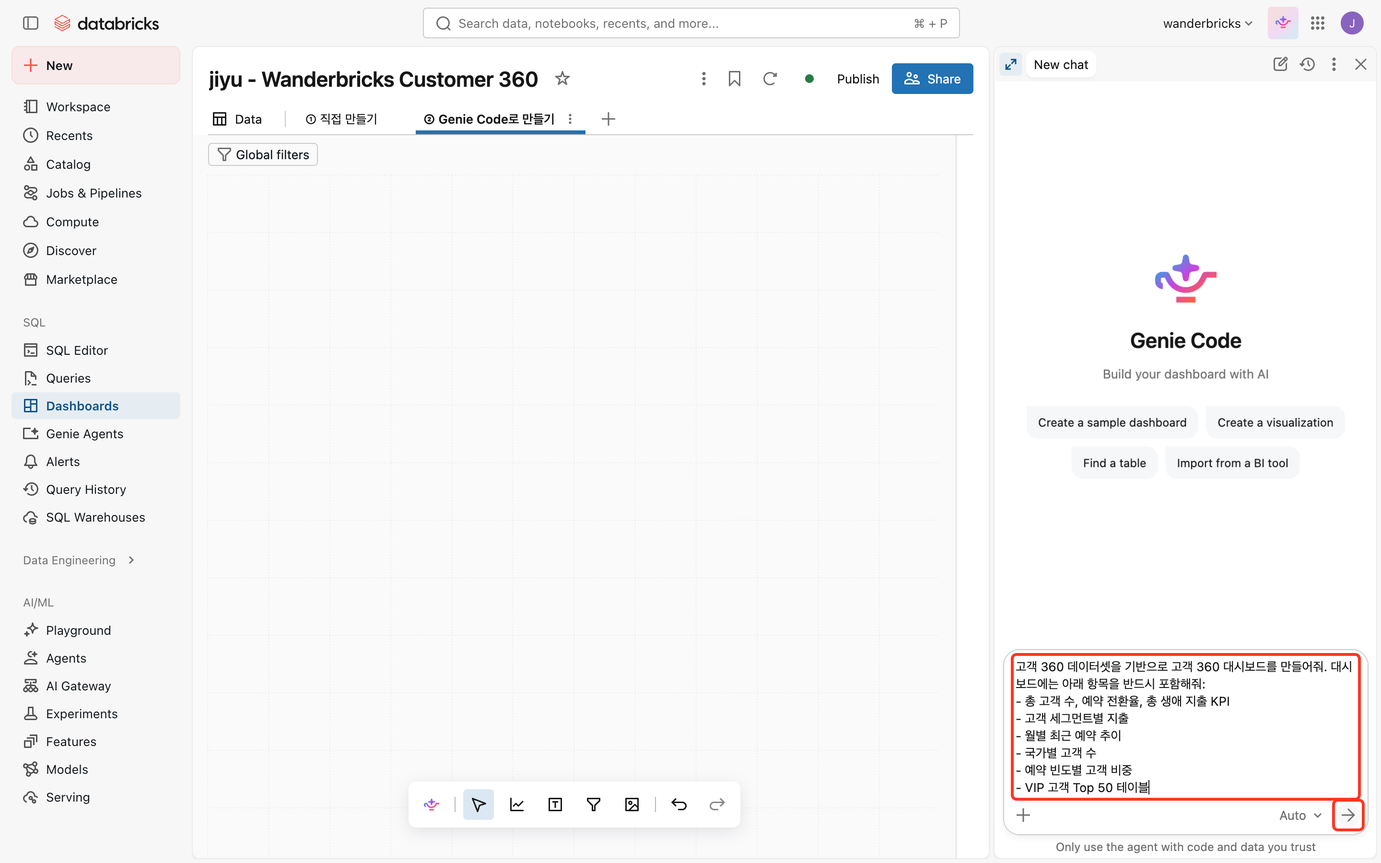
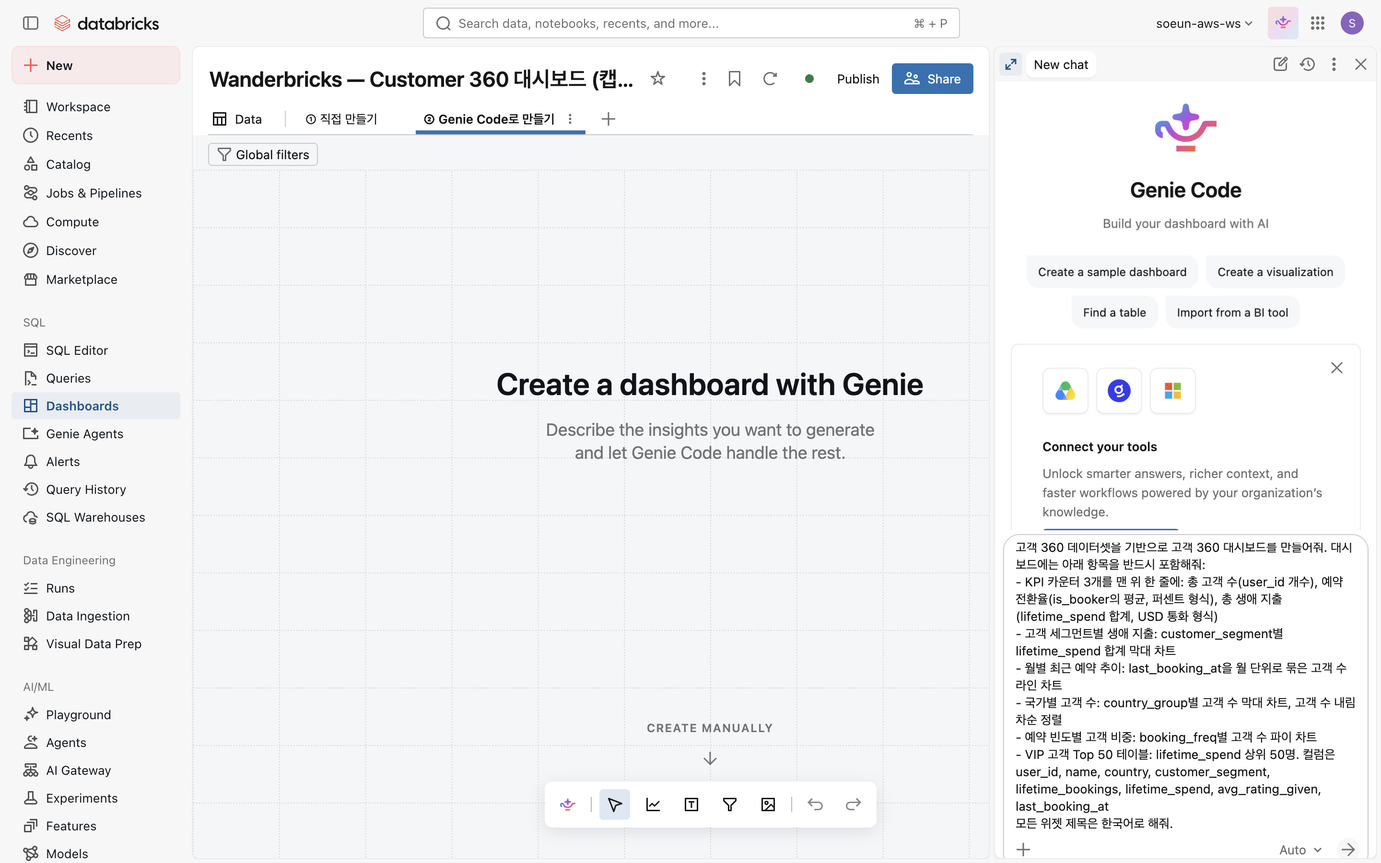
Add 1.4 Genie Code & Visual Data Prep, segment widgets in 2.2, refine 2.3 prompt
- 1.4 (Optional): build the same pipeline with Genie Code; Visual Data Prep overview and sample flow
- 2.2: steps 5-10 for segment & distribution widgets (heatmap, histogram, stacked bar, bubble) and two new datasets
- 2.3: prompt now defines each KPI/chart so results match the reference dashboard
- Screenshots captured on fevm-soeun-aws-ws

diff --git a/docs/kor/01-lakeflow-pipeline/1-4-optional-genie-code-vdp.md b/docs/kor/01-lakeflow-pipeline/1-4-optional-genie-code-vdp.md
@@ -1,0 +1,123 @@
+# 1.4) (Optional) Genie Code와 Visual Data Prep
+
+이 페이지는 선택 실습입니다. 1.1~1.3에서 SQL로 직접 만든 파이프라인을 **Genie Code**에게 자연어로 요청해 똑같이 만들어 보고, 코드 없이 데이터를 가공하는 **Visual Data Prep**이 어떻게 생긴 기능인지 살펴봅니다.
+
+| 방법 | 만드는 것 | 이런 분께 |
+|---|---|---|
+| SQL 직접 작성 (1.1~1.3) | Lakeflow 파이프라인 | 로직을 세밀하게 통제하려는 데이터 엔지니어 |
+| Genie Code (1단계~3단계) | 같은 Lakeflow 파이프라인 | 초안을 빠르게 만들고 코드를 검토·수정하려는 분 |
+| Visual Data Prep (4단계~6단계) | 캔버스 기반 데이터 준비 흐름 | SQL보다 화면 조작이 편한 분석가 |
+
+!!! warning "다른 스키마를 사용하세요"
+    1.1~1.3에서 만든 테이블과 같은 이름(`bronze_users`, `gold_customer_360` 등)을 만들기 때문에, 같은 카탈로그·스키마를 쓰면 기존 파이프라인과 충돌합니다. 이 실습에서는 기본 스키마로 `default`가 아닌 새 스키마(예: `genie_code`)를 사용합니다. 카탈로그에서 스키마를 먼저 만든 뒤 시작합니다.
+
+## 1단계 - 새 파이프라인 만들고 Genie Code 열기
+
+1. 왼쪽 사이드바 상단의 **New** → **ETL pipeline**을 클릭합니다. [1.1)의 1단계](1-1-bronze.md#1-)와 같은 방법으로 파이프라인 이름(예: `<your_name>_wanderbricks_genie_code`)과 기본 카탈로그·스키마(`<your_name>_wanderbricks_marketing` / `genie_code`)를 설정합니다.
+
+2. 편집기의 빈 파일에 보이는 **Create with Genie Code**를 클릭합니다. 오른쪽에 Genie Code 패널이 열립니다. 화면 오른쪽 위의 Genie Code 아이콘으로 열어도 됩니다.
+
+    ![Create with Genie Code](../assets/images/01-lakeflow-pipeline/1-4-01-genie-code-button.png)
+
+## 2단계 - 프롬프트 입력하기
+
+1. Genie Code 입력창에 아래 프롬프트를 붙여넣고 전송합니다.
+
+    !!! info "Prompt:"
+        ```text
+        samples.wanderbricks의 users, bookings, reviews 테이블로 SQL 메달리온 파이프라인을 만들어줘. 파일은 bronze.sql, silver.sql, gold.sql 3개로 나눠줘.
+        - Bronze: bronze_users, bronze_bookings, bronze_reviews 스트리밍 테이블. 원천을 STREAM()으로 그대로 읽고 _ingested_at(current_timestamp), _source(원천 테이블명) 컬럼 추가
+        - Silver: silver_dim_users(email NULL 제거, email·name·country·user_type 표준화), silver_fact_bookings(total_amount > 0, check_out >= check_in, status는 pending/confirmed/cancelled/completed만, nights = datediff 추가), silver_fact_reviews(is_deleted = false, rating 1~5). 규칙은 CONSTRAINT ... EXPECT ... ON VIOLATION DROP ROW로 정의
+        - Gold: gold_customer_360 Materialized View. 고객 1명당 1행으로 lifetime_bookings(예약 수), lifetime_spend(completed 예약 금액 합계), avg_rating_given(평균 평점), last_booking_at(최근 예약일). 예약과 리뷰는 각각 user_id로 먼저 집계한 뒤 users에 LEFT JOIN해서 팬아웃을 막아줘. 컬럼마다 한국어 COMMENT를 달고 user_id를 PRIMARY KEY로 지정해줘
+        ```
+
+    ![파이프라인 프롬프트 입력](../assets/images/01-lakeflow-pipeline/1-4-02-pipeline-prompt.png)
+
+2. Genie Code가 계획(**Plan**)을 세우고 파일을 만든 뒤, 파이프라인을 실행해 결과를 확인합니다. 2~4분 정도 걸립니다.
+
+    ![Genie Code가 파이프라인을 만드는 중](../assets/images/01-lakeflow-pipeline/1-4-03-pipeline-generating.png)
+
+!!! tip "프롬프트에 무엇을 적어야 하나요?"
+    1.2)에서 설명한 **Expectations 규칙**, **팬아웃을 막는 사전 집계**, **컬럼 코멘트와 기본 키**는 Genie Code가 스스로 판단하기 어려운 부분입니다. 프롬프트에 직접 적어 주어야 1.1~1.3과 같은 결과가 나옵니다. 예를 들어 "팬아웃을 막아줘"를 빼면 예약과 리뷰를 한 번에 조인해 생애 지출이 부풀려질 수 있습니다.
+
+## 3단계 - 결과 검토하고 반영하기
+
+1. Genie Code가 만든 파일 3개가 패널 아래 **assets** 목록에 표시되고, 하단 **Tables** 탭에 7개 테이블의 실행 결과가 나타납니다. 파일 이름을 클릭해 코드를 검토한 뒤 **Accept all**을 클릭해 반영합니다.
+
+    ![Genie Code 결과와 Accept all](../assets/images/01-lakeflow-pipeline/1-4-04-pipeline-result.png)
+
+2. 하단의 **Pipeline graph** 탭에서 1.3)과 같은 7개 테이블 그래프가 만들어졌는지 확인합니다. Silver 노드 오른쪽 아래의 숫자(476, 124, 1)는 Expectations로 제거된 행 수입니다.
+
+    ![Genie Code로 만든 파이프라인 그래프](../assets/images/01-lakeflow-pipeline/1-4-05-pipeline-graph.png)
+
+3. 결과가 아래와 같은지 확인합니다. 1.3)에서 SQL로 직접 만든 결과와 같아야 합니다.
+
+    | 테이블 | 행 수 |
+    |---|---|
+    | `silver_dim_users` | 124,385 |
+    | `silver_fact_bookings` | 72,246 |
+    | `silver_fact_reviews` | 99,317 |
+    | `gold_customer_360` | 124,385 (생애 지출 합계 약 $4.13M) |
+
+!!! info "결과는 매번 조금씩 다를 수 있습니다"
+    Genie Code는 생성형 AI이므로 파일 구성, 컬럼 순서, 코멘트 문구는 실습자마다 다를 수 있습니다. 행 수나 합계가 위와 다르면 "silver_fact_reviews의 Expectations를 다시 확인해줘"처럼 후속 요청으로 고칩니다. 코드를 직접 수정해도 됩니다.
+
+## 4단계 - Visual Data Prep 살펴보기
+
+**Visual Data Prep**은 **Lakeflow Designer**에서 데이터를 코드 없이 준비·가공하는 기능입니다. 캔버스에 연산자(operator)를 끌어다 놓고 연결해 흐름을 만들고, 단계마다 결과를 바로 미리 볼 수 있습니다.
+
+1. 왼쪽 사이드바 상단의 **New** → **Visual data prep**을 클릭합니다.
+
+    ![New > Visual data prep](../assets/images/01-lakeflow-pipeline/1-4-06-new-visual-data-prep.png)
+
+2. 왼쪽에 연산자 목록, 가운데에 캔버스가 열립니다. 캔버스 가운데 입력창에 자연어로 원하는 가공을 설명하거나, **Select a source**로 테이블을 골라 직접 시작할 수 있습니다.
+
+    ![Visual Data Prep 화면](../assets/images/01-lakeflow-pipeline/1-4-07-designer-overview.png)
+
+### 주요 연산자
+
+| 분류 | 연산자 | 하는 일 |
+|---|---|---|
+| Source and output | **Source**, Enter Data | Unity Catalog 테이블·파일을 불러오거나 값을 직접 입력 |
+| | **Output**, Notifications | 결과를 테이블·Materialized View·파일로 저장, 실행 결과 알림 |
+| AI transformations | **AI Function** | 감성 분석·분류·요약·번역 같은 AI 함수를 행마다 적용 |
+| Transformations | **Filter**, Select, Sort, Limit, Unique | 행 필터링, 컬럼 선택, 정렬, 개수 제한, 중복 제거 |
+| | **Prepare** | 공백 제거, 대소문자 변환, 값 치환, 수식(Formula) 등 컬럼 정리 |
+| | **Aggregate**, Pivot | 그룹별 집계, 행·열 회전 |
+| | **Join**, Combine | 키로 테이블 조인, 여러 테이블 합치기(Union 등) |
+| | **SQL**, Python | 화면으로 어려운 로직은 코드로 작성 |
+
+## 5단계 - (샘플) 자연어로 흐름 만들기
+
+3단계에서 만든 Silver 테이블로 "고객별 예약 수와 지출"을 구하는 흐름을 만들어 봅니다. 1.2)의 Gold 테이블을 화면으로 만드는 것과 같은 작업입니다.
+
+1. 캔버스 가운데 입력창에 아래 내용을 입력하고 전송합니다. 카탈로그·스키마 이름은 본인 것으로 바꿉니다.
+
+    !!! info "Prompt:"
+        ```text
+        <your_name>_wanderbricks_marketing.genie_code의 silver_fact_bookings를 user_id별로 집계해서 예약 수(booking_id 개수)와 completed 예약의 total_amount 합계(lifetime_spend)를 구하고, silver_dim_users에 user_id로 LEFT JOIN해서 country, user_type과 함께 보여줘.
+        ```
+
+    ![Visual Data Prep 프롬프트](../assets/images/01-lakeflow-pipeline/1-4-08-designer-prompt.png)
+
+2. Genie Code가 만들 흐름을 요약해 보여 주며 확인을 요청합니다(**Auto-approve needs your confirmation**). 내용을 확인하고 **Allow**를 클릭합니다.
+
+    ![Allow로 승인](../assets/images/01-lakeflow-pipeline/1-4-09-designer-allow.png)
+
+3. 캔버스에 Source 2개 → Aggregate → Join → Select로 이어지는 흐름이 만들어지고, 아래 **Preview**에 입력과 출력 데이터가 표시됩니다. **Accept all**을 클릭해 반영합니다.
+
+    ![Visual Data Prep 흐름](../assets/images/01-lakeflow-pipeline/1-4-10-designer-flow.png)
+
+## 6단계 - 연산자 설정 확인하기
+
+1. 캔버스에서 **Booking aggregation** 연산자를 클릭합니다. 오른쪽 패널에서 그룹 기준(**Group by**: `user_id`)과 집계 항목(**Aggregate by**: `lifetime_bookings`, `lifetime_spend`)을 화면으로 확인하고 바꿀 수 있습니다. 아래 **Preview**에서 연산자의 입력과 출력을 나란히 비교할 수 있습니다.
+
+    ![Aggregate 연산자 설정](../assets/images/01-lakeflow-pipeline/1-4-11-designer-aggregate.png)
+
+2. 결과를 테이블로 저장하려면 마지막 연산자 뒤에 **Output** 연산자를 연결합니다. 상단의 **Run all**로 전체 데이터를 처리하고, 달력 아이콘(**Schedule**)으로 정기 실행 Job을 만들 수 있습니다.
+
+!!! info "Visual Data Prep과 Lakeflow 파이프라인의 차이"
+    Visual Data Prep으로 만든 흐름은 Lakeflow 파이프라인이 아니라 `<이름>.designer.ipynb` 노트북 파일로 저장되고, 실행하면 Output 연산자가 테이블·Materialized View·파일을 씁니다. 1.2)에서 사용한 **Streaming Table의 증분 처리**와 **Expectations**는 Visual Data Prep의 공식 문서에서 지원 여부를 확인하지 못했습니다. 품질 검사는 **Guardrails** 연산자로 대신할 수 있습니다. 자세한 내용은 [Lakeflow Designer 문서](https://docs.databricks.com/aws/en/designer/what-is-lakeflow-designer)와 [연산자 목록](https://docs.databricks.com/aws/en/designer/built-in-operators)을 참고하세요.
+
+!!! success "축하합니다!"
+    같은 파이프라인을 Genie Code로 만들어 보고, Visual Data Prep으로 코드 없이 데이터를 가공하는 방법을 살펴봤습니다. 실습이 끝나면 이 페이지에서 만든 파이프라인, `genie_code` 스키마, Visual Data Prep 파일을 삭제합니다.

diff --git a/docs/kor/02-aibi-dashboard/2-2-widgets.md b/docs/kor/02-aibi-dashboard/2-2-widgets.md
@@ -1,12 +1,16 @@
 # 2.2) 핵심 위젯 직접 만들기
 
-이 페이지에서는 `① 직접 만들기` 탭에 핵심 위젯 3개를 직접 만듭니다.
+이 페이지에서는 `① 직접 만들기` 탭에 핵심 위젯 3개를 직접 만든 뒤, 고객을 여러 각도로 나눠 보는 **세그먼트 & 분포** 위젯 4개를 추가합니다.
 
 | # | 위젯 | 유형 | 보여주는 것 |
 |---|---|---|---|
 | 1 | 총 고객 수 | Counter | 전체 고객 규모 |
 | 2 | 세그먼트별 생애 지출 | Bar | 개인 고객과 비즈니스 고객의 지출 비교 |
 | 3 | 월별 최근 예약 고객 수 | Line | 마지막 예약 시점별 고객 분포 |
+| 4 | RFM 히트맵 — 최근성 × 빈도 | Heatmap | 최근에, 자주 예약한 고객일수록 지출이 큰지 |
+| 5 | LTV 분포 (지출 고객) | Histogram | 생애 지출 금액이 어느 구간에 몰려 있는지 |
+| 6 | 국가별 예약 빈도 구성 | Bar (누적·가로) | 국가마다 재예약 고객 비중이 어떻게 다른지 |
+| 7 | 국가별 규모 vs 고객 가치 | Scatter (버블) | 고객이 많은 국가가 1인당 가치도 높은지 |
 
 먼저 화면 하단의 페이지 탭에서 `① 직접 만들기`를 클릭해 첫 번째 탭으로 이동합니다.
 
@@ -87,5 +91,125 @@
 
     ![완성된 ① 직접 만들기 탭](../assets/images/02-aibi-dashboard/2-2-17-layout.png)
 
+## 5단계 - 세그먼트 & 분포 위젯용 데이터셋 추가하기
+
+히스토그램과 버블 차트는 `고객 360`과 행의 단위가 다른 데이터가 필요합니다. 데이터셋 2개를 더 만듭니다.
+
+| 데이터셋 | 행 단위 | 행 수 | 사용하는 위젯 |
+|---|---|---|---|
+| `지출 고객` | 숙박 완료 예약이 있는 고객 1명 | 7,195 | LTV 분포 (Histogram) |
+| `국가별 고객 요약` | 국가 1개 (고객 500명 이상) | 47 | 국가별 규모 vs 고객 가치 (Scatter) |
+
+1. [2.1)의 2단계](2-1-dataset.md#2-)와 같은 방법으로 **Data** 탭 → **Create from SQL**을 클릭하고, 아래 쿼리를 붙여넣어 실행한 뒤 데이터셋 이름을 `지출 고객`으로 바꿉니다.
+
+    ```sql title="지출 고객 데이터셋"
+    --8<-- "lab-files/kor/step2/spender_dataset.sql"
+    ```
+
+2. 같은 방법으로 아래 쿼리로 데이터셋을 하나 더 만들고, 이름을 `국가별 고객 요약`으로 바꿉니다.
+
+    ```sql title="국가별 고객 요약 데이터셋"
+    --8<-- "lab-files/kor/step2/country_dataset.sql"
+    ```
+
+3. **Canvas** 탭으로 돌아와 `① 직접 만들기` 탭의 기존 위젯 아래로 스크롤합니다.
+
+!!! info "왜 `지출 고객`을 따로 만드나요?"
+    고객의 94%(117,190명)는 숙박 완료 예약이 없어 생애 지출이 비어 있습니다. `고객 360`으로 히스토그램을 그리면 이 고객들이 차트 밖의 `nulls`로 따로 집계되고, 실제로 돈을 쓴 고객의 분포가 잘 보이지 않습니다. 그래서 지출 고객만 남긴 데이터셋을 씁니다.
+
+## 6단계 - RFM 히트맵 (Heatmap)
+
+**최근성(Recency)**과 **예약 빈도(Frequency)** 두 축으로 고객을 나누고, 셀의 색으로 **평균 생애 지출(Monetary)**을 표시합니다.
+
+1. **Add a visualization**을 클릭하고 기존 위젯 아래 빈 곳을 클릭해 위젯을 배치합니다.
+
+    ![세그먼트 위젯 배치](../assets/images/02-aibi-dashboard/2-2-18-add-segment-widget.png)
+
+2. **Visualization** 드롭다운을 열고 목록을 아래로 스크롤해 **Heatmap**을 선택합니다.
+
+    ![Heatmap 선택](../assets/images/02-aibi-dashboard/2-2-19-heatmap-type.png)
+
+3. **X axis** 옆의 **+**를 클릭합니다. 데이터셋이 여러 개이므로 필드 목록이 데이터셋별로 묶여 있습니다. **고객 360**을 펼치고 `recency_bucket`을 선택합니다.
+
+    ![데이터셋 펼치고 필드 선택](../assets/images/02-aibi-dashboard/2-2-20-heatmap-dataset.png)
+
+4. **Y axis**에 `booking_freq`를, **Color**에 `lifetime_spend`를 선택합니다.
+
+    ![Heatmap 필드 설정](../assets/images/02-aibi-dashboard/2-2-21-heatmap-fields.png)
+
+5. **Color**에 추가된 `SUM(lifetime_spend)`를 클릭하고 **Transform**에서 **AVG**를 선택합니다. 셀 색이 합계가 아니라 **세그먼트별 평균 지출**을 나타내게 됩니다.
+
+    ![Color 집계를 AVG로 변경](../assets/images/02-aibi-dashboard/2-2-22-heatmap-avg.png)
+
+6. 설정 패널 아래쪽의 **Labels**를 켜서 셀 안에 값을 표시합니다. **Title**을 체크하고 제목을 `RFM 히트맵 — 최근성 × 빈도`로 입력합니다.
+
+    ![히트맵 완성](../assets/images/02-aibi-dashboard/2-2-23-heatmap-result.png)
+
+7. 예약 빈도가 높을수록(아래 행) 평균 지출이 크게 늘어나는지 확인합니다. 예를 들어 `1회` 행은 약 48~61, `3회 이상` 행은 약 171~193입니다.
+
+!!! tip "히트맵 읽는 법"
+    `recency_bucket`과 `booking_freq` 값 앞의 `1)`, `2)` 같은 번호는 축이 기간 순서대로 정렬되도록 붙인 것입니다. 이 데이터에서는 최근성보다 **예약 빈도**가 지출과 훨씬 강하게 연결되어 있습니다. 그래서 2회 이상 예약 고객을 늘리는 재예약 캠페인이 효과적이라는 해석을 할 수 있습니다.
+
+## 7단계 - LTV 분포 (Histogram)
+
+1. **Add a visualization**을 클릭하고 히트맵 오른쪽 빈 곳에 위젯을 배치합니다. **Visualization**에서 **Histogram**을 선택합니다.
+
+2. **X axis** 옆의 **+**를 클릭하고, 이번에는 **지출 고객**을 펼쳐 `spender_ltv`를 선택합니다.
+
+    ![지출 고객 데이터셋에서 필드 선택](../assets/images/02-aibi-dashboard/2-2-24-histogram-dataset.png)
+
+3. **Y axis**에 **COUNT(\*)**를 선택합니다.
+
+4. X축의 `BIN(spender_ltv)`를 클릭하고 **Bin size**를 `100`으로 바꿉니다. 생애 지출이 $100 단위 구간으로 나뉩니다.
+
+    ![Bin size 100](../assets/images/02-aibi-dashboard/2-2-25-histogram-bin.png)
+
+5. **Title**을 체크하고 제목을 `LTV 분포 (지출 고객)`으로 입력합니다.
+
+    ![LTV 분포 위젯](../assets/images/02-aibi-dashboard/2-2-26-histogram-result.png)
+
+6. 생애 지출이 대부분 $1,000 아래에 고르게 분포하고, $1,000을 넘는 고객은 소수라는 것을 확인합니다.
+
+## 8단계 - 국가별 예약 빈도 구성 (누적 가로 막대)
+
+1. **Add a visualization**을 클릭하고 히트맵 아래 빈 곳에 위젯을 배치합니다. **Visualization**은 기본값 **Bar**를 그대로 둡니다.
+
+2. **X axis**에 **고객 360**의 `country_group`을, **Y axis**에 **COUNT(\*)**를, **Color**에 `booking_freq`를 선택합니다. 같은 막대 안에서 예약 빈도별 고객 수가 쌓여 표시됩니다.
+
+    ![누적 막대 필드 설정](../assets/images/02-aibi-dashboard/2-2-27-stacked-fields.png)
+
+3. **X axis**와 **Y axis** 사이의 **⇅**(축 바꾸기) 아이콘을 클릭해 가로 막대로 바꿉니다. 국가 이름이 세로로 나열되어 읽기 쉬워집니다.
+
+    ![축 바꾸기](../assets/images/02-aibi-dashboard/2-2-28-stacked-swap.png)
+
+4. **Title**을 체크하고 제목을 `국가별 예약 빈도 구성`으로 입력합니다.
+
+    ![국가별 예약 빈도 구성 위젯](../assets/images/02-aibi-dashboard/2-2-29-stacked-result.png)
+
+## 9단계 - 국가별 규모 vs 고객 가치 (버블 차트)
+
+1. **Add a visualization**을 클릭하고 누적 막대 오른쪽 빈 곳에 위젯을 배치합니다. **Visualization**에서 **Scatter**를 선택합니다.
+
+    ![Scatter 선택](../assets/images/02-aibi-dashboard/2-2-30-bubble-type.png)
+
+2. **X axis** 옆의 **+**를 클릭하고 **국가별 고객 요약**을 펼쳐 `customers`를 선택합니다. **Y axis**에 `avg_ltv`를 선택합니다. 이 데이터셋은 국가 1개가 1행이라 점 하나가 국가 하나입니다.
+
+3. **Size**에 `total_spend`를, **Color**에 `country`를 선택합니다. 점의 크기가 국가별 총 지출을 나타내는 버블 차트가 됩니다.
+
+    ![버블 차트 필드 설정](../assets/images/02-aibi-dashboard/2-2-31-bubble-fields.png)
+
+4. **Title**을 체크하고 제목을 `국가별 규모 vs 고객 가치`로 입력합니다.
+
+5. 고객이 압도적으로 많은 인도·중국(오른쪽 큰 버블)도 1인당 평균 LTV는 다른 국가들과 비슷한 $570~580 수준인지 확인합니다.
+
+!!! tip "범례가 너무 길다면"
+    `country`는 47개 값이 있어 범례가 길어집니다. 위젯 높이를 키우거나, 색 구분이 필요 없다면 **Color**의 `country`를 빼도 됩니다(위젯 위에 마우스를 올리면 국가 이름이 표시됩니다).
+
+## 10단계 - 세그먼트 & 분포 영역 확인하기
+
+1. 위젯 4개의 크기와 위치를 2×2로 정리합니다.
+
+    ![완성된 세그먼트 & 분포](../assets/images/02-aibi-dashboard/2-2-32-segment-result.png)
+
 !!! success "축하합니다!"
-    핵심 위젯 3개를 직접 만들었습니다. 다음 페이지에서는 Genie Code에게 프롬프트 한 번으로 나머지 위젯을 만들게 합니다.
+    핵심 위젯 3개와 세그먼트 & 분포 위젯 4개를 직접 만들었습니다. 다음 페이지에서는 Genie Code에게 프롬프트 한 번으로 나머지 위젯을 만들게 합니다.

diff --git a/docs/kor/02-aibi-dashboard/2-3-genie-code.md b/docs/kor/02-aibi-dashboard/2-3-genie-code.md
@@ -19,13 +19,17 @@
     !!! info "Prompt:"
         ```text
         고객 360 데이터셋을 기반으로 고객 360 대시보드를 만들어줘. 대시보드에는 아래 항목을 반드시 포함해줘:
-        - 총 고객 수, 예약 전환율, 총 생애 지출 KPI
-        - 고객 세그먼트별 지출
-        - 월별 최근 예약 추이
-        - 국가별 고객 수
-        - 예약 빈도별 고객 비중
-        - VIP 고객 Top 50 테이블
+        - KPI 카운터 3개를 맨 위 한 줄에: 총 고객 수(user_id 개수), 예약 전환율(is_booker의 평균, 퍼센트 형식), 총 생애 지출(lifetime_spend 합계, USD 통화 형식)
+        - 고객 세그먼트별 생애 지출: customer_segment별 lifetime_spend 합계 막대 차트
+        - 월별 최근 예약 추이: last_booking_at을 월 단위로 묶은 고객 수 라인 차트
+        - 국가별 고객 수: country_group별 고객 수 막대 차트, 고객 수 내림차순 정렬
+        - 예약 빈도별 고객 비중: booking_freq별 고객 수 파이 차트
+        - VIP 고객 Top 50 테이블: lifetime_spend 상위 50명. 컬럼은 user_id, name, country, customer_segment, lifetime_bookings, lifetime_spend, avg_rating_given, last_booking_at
+        모든 위젯 제목은 한국어로 해줘.
         ```
+
+    !!! tip "프롬프트에 정의를 적는 이유"
+        "예약 전환율"이나 "VIP 고객"처럼 계산 방법이 여러 가지인 지표는 **어떤 컬럼으로 어떻게 계산할지**를 적어 주어야 결과가 매번 같습니다. 정의가 없으면 Genie Code가 실습자마다 다른 계산식(예: 전환율을 소수 0.44로 표시, VIP를 예약 수 기준으로 선정)을 고를 수 있습니다.
 
     ![프롬프트 입력](../assets/images/02-aibi-dashboard/2-3-03-prompt.png)
 
@@ -39,10 +43,10 @@
 
     | 항목 | 위젯 유형 (예시) |
     |---|---|
-    | 총 고객 수, 예약 전환율, 총 생애 지출 | Counter 3개 (약 124.39K / 43.93 / 4.13M) |
+    | 총 고객 수, 예약 전환율, 총 생애 지출 | Counter 3개 (약 124K / 43.9% / $4.1M) |
     | 세그먼트별 지출 | Bar |
     | 월별 최근 예약 추이 | Line |
-    | 국가별 고객 수 | Bar |
+    | 국가별 고객 수 | Bar (고객 수 내림차순, `기타` → INDIA → CHINA 순) |
     | 예약 빈도 비중 | Pie |
     | VIP Top 50 | Table |
 

diff --git a/docs/kor/02-aibi-dashboard/index.md b/docs/kor/02-aibi-dashboard/index.md
@@ -29,7 +29,7 @@ Step 1에서 Daniel이 만든 `gold_customer_360` 테이블에는 고객 1명당
 | 페이지 | 내용 |
 |---|---|
 | [2.1) 데이터셋과 탭 만들기](2-1-dataset.md) | 대시보드를 만들고, 위젯이 사용할 데이터셋과 탭 2개를 만듭니다. |
-| [2.2) 핵심 위젯 직접 만들기](2-2-widgets.md) | 첫 번째 탭에 핵심 위젯 3개를 직접 만듭니다. |
+| [2.2) 핵심 위젯 직접 만들기](2-2-widgets.md) | 첫 번째 탭에 핵심 위젯 3개와 세그먼트 & 분포 위젯 4개(Heatmap, Histogram, 누적 막대, 버블)를 직접 만듭니다. |
 | [2.3) Genie Code로 한 번에 만들기](2-3-genie-code.md) | 두 번째 탭에서 Genie Code에게 프롬프트 한 번으로 대시보드를 만들게 합니다. |
 
 ## 이번 실습에서 사용하는 기능
@@ -43,7 +43,7 @@ Step 1에서 Daniel이 만든 `gold_customer_360` 테이블에는 고객 1명당
 ## 학습 목표 🎯
 
 - SQL로 대시보드 데이터셋을 정의할 수 있습니다.
-- Counter, Bar, Line 위젯을 직접 만들고 구성할 수 있습니다.
+- Counter, Bar, Line, Heatmap, Histogram, Scatter 위젯을 직접 만들고 구성할 수 있습니다.
 - Genie Code로 자연어 프롬프트 한 번에 여러 위젯을 만들 수 있습니다.
 
 ## 예상 소요 시간 ⏱

diff --git a/docs/kor/01-lakeflow-pipeline/index.md b/docs/kor/01-lakeflow-pipeline/index.md
@@ -61,6 +61,7 @@ flowchart LR
 | [1.1) Bronze: 원천 데이터 수집](1-1-bronze.md) | 파이프라인을 만들고, 원천 테이블 3개를 그대로 수집하는 Bronze 테이블을 정의합니다. |
 | [1.2) Silver·Gold: 정제와 고객 360](1-2-silver-gold.md) | 데이터 품질 규칙(Expectations)으로 Silver 테이블을 정제하고, 고객 1명당 1행의 Gold 테이블을 만듭니다. |
 | [1.3) 파이프라인 실행과 결과 확인](1-3-run.md) | 파이프라인을 실행하고, 파이프라인 그래프와 데이터 품질 결과를 확인합니다. |
+| [1.4) (Optional) Genie Code와 Visual Data Prep](1-4-optional-genie-code-vdp.md) | 같은 파이프라인을 Genie Code 프롬프트로 만들어 보고, 코드 없이 데이터를 가공하는 Visual Data Prep을 살펴봅니다. |
 
 ## 이번 실습에서 사용하는 기능
 
